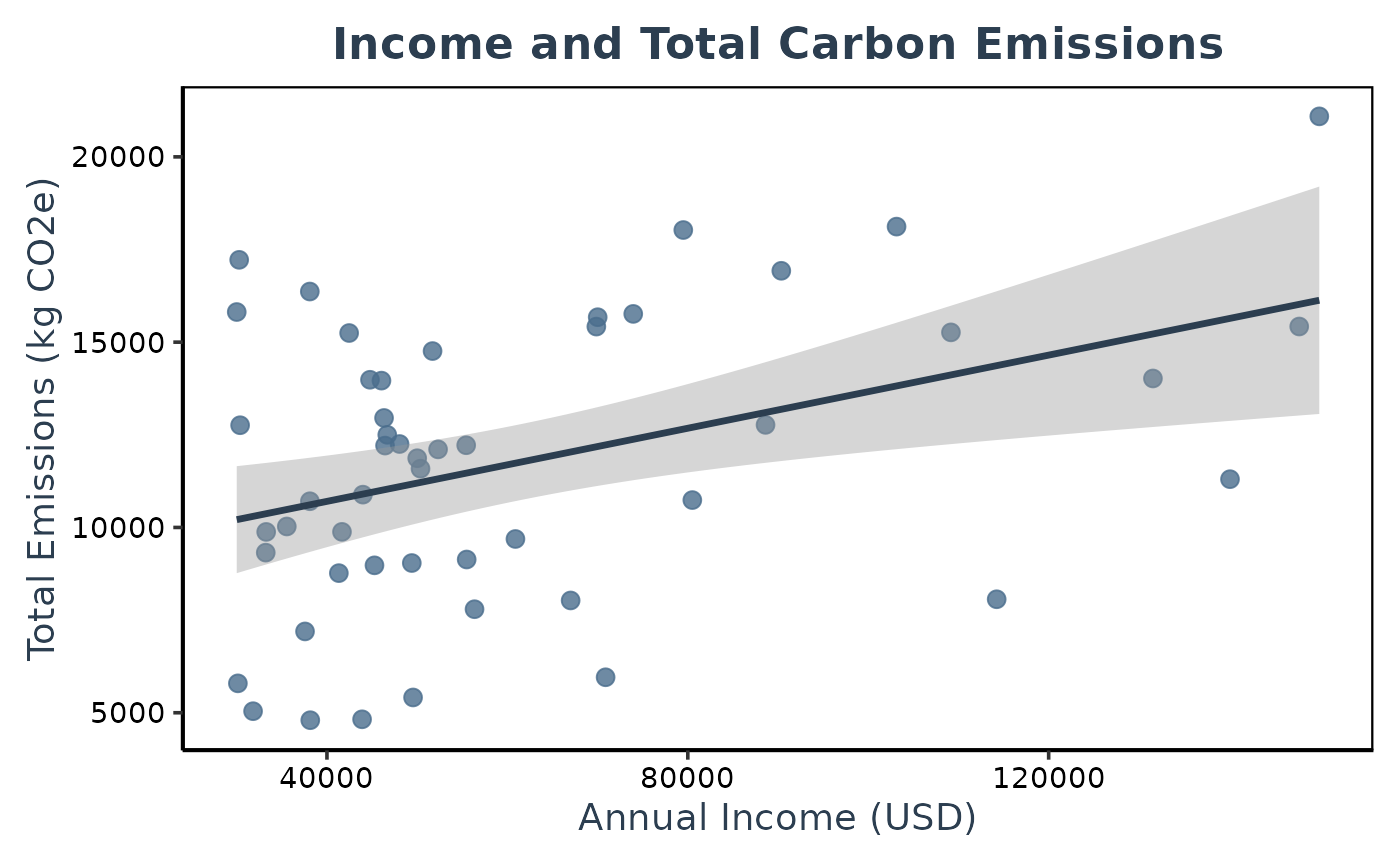
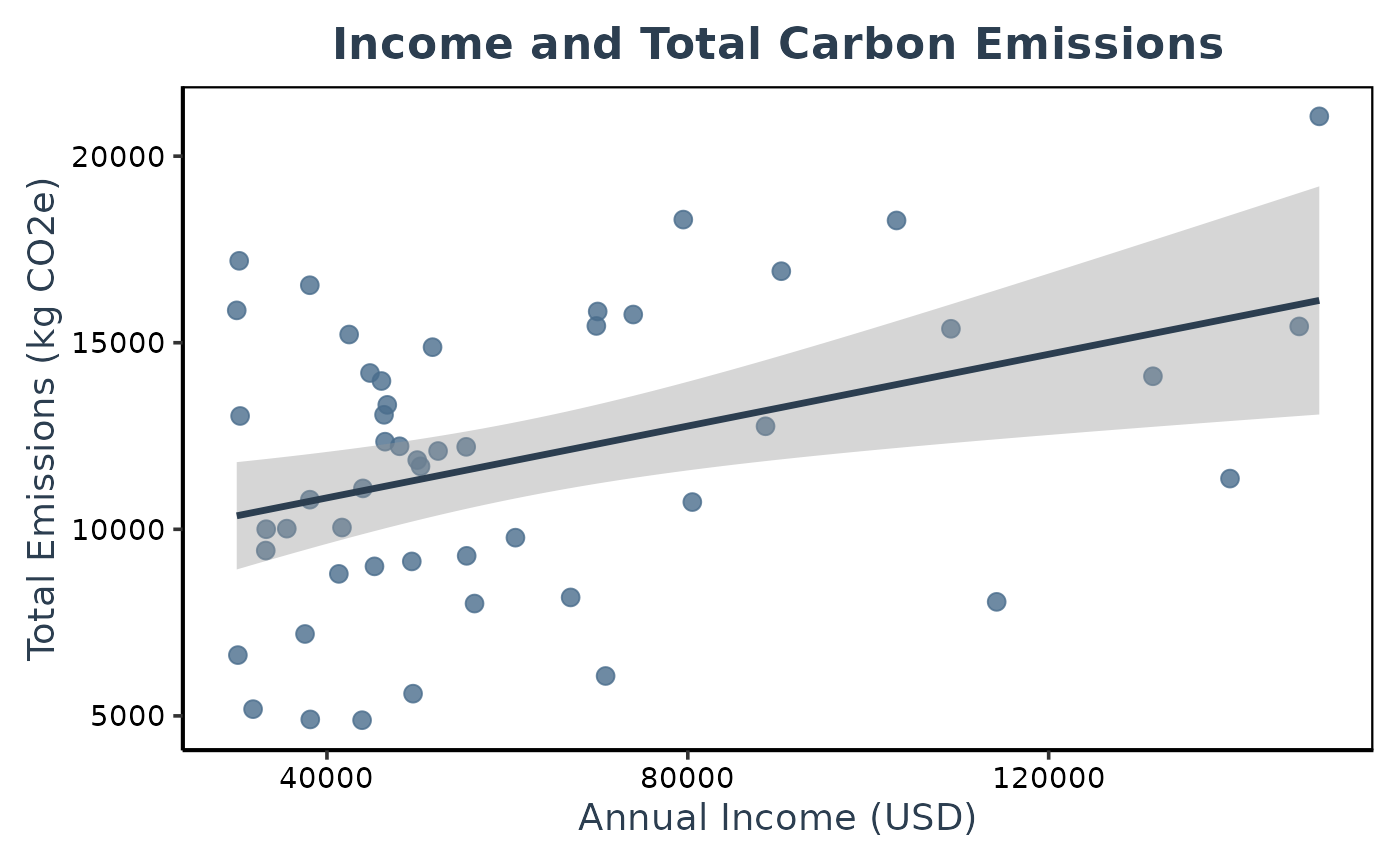
Deploying to gh-pages from @ jianing-d/SECFC@8f093e374346b09e76c5bb111f000ab4256d6d50 🚀

diff --git a/articles/Get-Started.html b/articles/Get-Started.html
@@ -116,14 +116,14 @@ match exactly. Here is an example of the expected data structure:</p>
 <span>  <span class="op">~</span><span class="va">CL_03_MonthlyEx_12</span>, <span class="op">~</span><span class="va">CL_03_MonthlyEx_13</span>, <span class="op">~</span><span class="va">CL_03_MonthlyEx_14</span>, <span class="op">~</span><span class="va">CL_03_MonthlyEx_15</span>, <span class="op">~</span><span class="va">F_01_DietaryHabits_5</span>,</span>
 <span>  <span class="op">~</span><span class="va">F_01_DietaryHabits_6</span>, <span class="op">~</span><span class="va">F_01_DietaryHabits_7</span>, <span class="op">~</span><span class="va">F_01_DietaryHabits_4</span>, <span class="op">~</span><span class="va">T_01_CarUsage</span>, <span class="op">~</span><span class="va">T_02_CarType</span>, <span class="op">~</span><span class="va">T_03_CarDistance</span>,</span>
 <span>  <span class="op">~</span><span class="va">T_04_PublicTransport</span>, <span class="op">~</span><span class="va">T_05_PublicTransport</span>, <span class="op">~</span><span class="va">T_06_AirTravelLong</span>, <span class="op">~</span><span class="va">T_07_AirTravelShort</span>, <span class="op">~</span><span class="va">T_08_LongDistanceTra</span>,</span>
-<span>  <span class="op">~</span><span class="va">EH_02_ElectricityBil_1</span>, <span class="op">~</span><span class="va">EH_03_ElectricityBil_1</span>, <span class="op">~</span><span class="va">EH_05_NaturalGasBill_1</span>, <span class="op">~</span><span class="va">EH_06_NaturalGasBill_1</span>, <span class="op">~</span><span class="va">PETS_4</span>, <span class="op">~</span><span class="va">PETS_5</span>,</span>
+<span>  <span class="op">~</span><span class="va">EH_02_ElectricityBil_1</span>, <span class="op">~</span><span class="va">EH_03_ElectricityBil_1</span>, <span class="op">~</span><span class="va">EH_05_NaturalGasBill_1</span>, <span class="op">~</span><span class="va">EH_06_NaturalGasBill_1</span>, <span class="op">~</span><span class="va">EH_07_WaterBill</span>, <span class="op">~</span><span class="va">PETS_4</span>, <span class="op">~</span><span class="va">PETS_5</span>,</span>
 <span>  <span class="op">~</span><span class="va">SD_06_HouseholdSize_17</span>, <span class="op">~</span><span class="va">SD_06_HouseholdSize_18</span>, <span class="op">~</span><span class="va">SD_06_HouseholdSize_19</span>, <span class="op">~</span><span class="va">SD_07_Country</span>, <span class="op">~</span><span class="va">SD_08_ZipCode</span>,</span>
 <span>  </span>
 <span>  <span class="st">"3/20/25 9:43"</span>, <span class="st">"3/20/25 9:47"</span>, <span class="st">"IP Address"</span>, <span class="st">"111.187.123.25"</span>, <span class="fl">100</span>, <span class="fl">240</span>, <span class="cn">TRUE</span>, <span class="st">"3/20/25 9:47"</span>, <span class="st">"R_3lENNCNKNsOdbgd"</span>,</span>
 <span>  <span class="cn">NA</span>, <span class="cn">NA</span>, <span class="cn">NA</span>, <span class="cn">NA</span>, <span class="fl">31.2222</span>, <span class="fl">121.4581</span>, <span class="st">"anonymous"</span>, <span class="st">"EN"</span>, <span class="st">"Yes, I accept to proceed to the study"</span>,</span>
 <span>  <span class="st">"7-12 times (About every 1-2 months)"</span>, <span class="fl">30</span>, <span class="fl">250</span>, <span class="fl">50</span>, <span class="fl">0</span>, <span class="fl">50</span>, <span class="fl">100</span>, <span class="fl">200</span>, <span class="fl">7</span>, <span class="fl">3</span>, <span class="fl">4</span>, <span class="fl">6</span>, <span class="st">"5-6 days"</span>,</span>
 <span>  <span class="st">"Gasoline Vehicle"</span>, <span class="st">"11-50 km or 6.2-31 miles"</span>, <span class="st">"Weekly"</span>, <span class="st">"5-10 km or 3.1-6.2 miles"</span>, <span class="st">"1-3 flights"</span>,</span>
-<span>  <span class="st">"1-3 flights"</span>, <span class="st">"Monthly"</span>, <span class="fl">120</span>, <span class="fl">1440</span>, <span class="fl">50</span>, <span class="fl">600</span>, <span class="fl">1</span>, <span class="fl">1</span>, <span class="fl">2</span>, <span class="fl">1</span>, <span class="fl">0</span>, <span class="st">"United States"</span>, <span class="fl">10001</span></span>
+<span>  <span class="st">"1-3 flights"</span>, <span class="st">"Monthly"</span>, <span class="fl">120</span>, <span class="fl">1440</span>, <span class="fl">50</span>, <span class="fl">600</span>,<span class="fl">150</span>, <span class="fl">1</span>, <span class="fl">1</span>, <span class="fl">2</span>, <span class="fl">1</span>, <span class="fl">0</span>, <span class="st">"United States"</span>, <span class="fl">10001</span></span>
 <span><span class="op">)</span></span></code></pre></div>
 <p>✅ Note The following columns are automatically generated when you
 export responses from Qualtrics: ~StartDate, ~EndDate, ~Status,
@@ -146,12 +146,12 @@ process data.</p>
 <div class="sourceCode" id="cb4"><pre class="downlit sourceCode r">
 <code class="sourceCode R"><span><span class="fu"><a href="../reference/calc_cons_emissions.html">calc_cons_emissions</a></span><span class="op">(</span><span class="va">data</span><span class="op">)</span></span>
 <span><span class="co">#&gt; ✅ A new data frame 'data_cons' is now available in your R environment.</span></span>
-<span><span class="co">#&gt; <span style="color: #949494;"># A tibble: 1 × 50</span></span></span>
+<span><span class="co">#&gt; <span style="color: #949494;"># A tibble: 1 × 51</span></span></span>
 <span><span class="co">#&gt;   StartDate    EndDate Status IPAddress Progress Duration (in seconds…¹ Finished</span></span>
 <span><span class="co">#&gt;   <span style="color: #949494; font-style: italic;">&lt;chr&gt;</span>        <span style="color: #949494; font-style: italic;">&lt;chr&gt;</span>   <span style="color: #949494; font-style: italic;">&lt;chr&gt;</span>  <span style="color: #949494; font-style: italic;">&lt;chr&gt;</span>        <span style="color: #949494; font-style: italic;">&lt;dbl&gt;</span>                  <span style="color: #949494; font-style: italic;">&lt;dbl&gt;</span> <span style="color: #949494; font-style: italic;">&lt;lgl&gt;</span>   </span></span>
 <span><span class="co">#&gt; <span style="color: #BCBCBC;">1</span> 3/20/25 9:43 3/20/2… IP Ad… 111.187.…      100                    240 TRUE    </span></span>
 <span><span class="co">#&gt; <span style="color: #949494;"># ℹ abbreviated name: ¹`Duration (in seconds)`</span></span></span>
-<span><span class="co">#&gt; <span style="color: #949494;"># ℹ 43 more variables: RecordedDate &lt;chr&gt;, ResponseId &lt;chr&gt;,</span></span></span>
+<span><span class="co">#&gt; <span style="color: #949494;"># ℹ 44 more variables: RecordedDate &lt;chr&gt;, ResponseId &lt;chr&gt;,</span></span></span>
 <span><span class="co">#&gt; <span style="color: #949494;">#   RecipientLastName &lt;lgl&gt;, RecipientFirstName &lt;lgl&gt;, RecipientEmail &lt;lgl&gt;,</span></span></span>
 <span><span class="co">#&gt; <span style="color: #949494;">#   ExternalReference &lt;lgl&gt;, LocationLatitude &lt;dbl&gt;, LocationLongitude &lt;dbl&gt;,</span></span></span>
 <span><span class="co">#&gt; <span style="color: #949494;">#   DistributionChannel &lt;chr&gt;, UserLanguage &lt;chr&gt;, Q39 &lt;chr&gt;,</span></span></span>
@@ -161,12 +161,12 @@ process data.</p>
 <div class="sourceCode" id="cb5"><pre class="downlit sourceCode r">
 <code class="sourceCode R"><span><span class="fu"><a href="../reference/calc_cons_emissions_process.html">calc_cons_emissions_process</a></span><span class="op">(</span><span class="va">data</span><span class="op">)</span></span>
 <span><span class="co">#&gt; ✅ A new data frame 'data_cons_process' is now available in your R environment.</span></span>
-<span><span class="co">#&gt; <span style="color: #949494;"># A tibble: 1 × 59</span></span></span>
+<span><span class="co">#&gt; <span style="color: #949494;"># A tibble: 1 × 60</span></span></span>
 <span><span class="co">#&gt;   StartDate    EndDate Status IPAddress Progress Duration (in seconds…¹ Finished</span></span>
 <span><span class="co">#&gt;   <span style="color: #949494; font-style: italic;">&lt;chr&gt;</span>        <span style="color: #949494; font-style: italic;">&lt;chr&gt;</span>   <span style="color: #949494; font-style: italic;">&lt;chr&gt;</span>  <span style="color: #949494; font-style: italic;">&lt;chr&gt;</span>        <span style="color: #949494; font-style: italic;">&lt;dbl&gt;</span>                  <span style="color: #949494; font-style: italic;">&lt;dbl&gt;</span> <span style="color: #949494; font-style: italic;">&lt;lgl&gt;</span>   </span></span>
 <span><span class="co">#&gt; <span style="color: #BCBCBC;">1</span> 3/20/25 9:43 3/20/2… IP Ad… 111.187.…      100                    240 TRUE    </span></span>
 <span><span class="co">#&gt; <span style="color: #949494;"># ℹ abbreviated name: ¹`Duration (in seconds)`</span></span></span>
-<span><span class="co">#&gt; <span style="color: #949494;"># ℹ 52 more variables: RecordedDate &lt;chr&gt;, ResponseId &lt;chr&gt;,</span></span></span>
+<span><span class="co">#&gt; <span style="color: #949494;"># ℹ 53 more variables: RecordedDate &lt;chr&gt;, ResponseId &lt;chr&gt;,</span></span></span>
 <span><span class="co">#&gt; <span style="color: #949494;">#   RecipientLastName &lt;lgl&gt;, RecipientFirstName &lt;lgl&gt;, RecipientEmail &lt;lgl&gt;,</span></span></span>
 <span><span class="co">#&gt; <span style="color: #949494;">#   ExternalReference &lt;lgl&gt;, LocationLatitude &lt;dbl&gt;, LocationLongitude &lt;dbl&gt;,</span></span></span>
 <span><span class="co">#&gt; <span style="color: #949494;">#   DistributionChannel &lt;chr&gt;, UserLanguage &lt;chr&gt;, Q39 &lt;chr&gt;,</span></span></span>
@@ -180,12 +180,12 @@ process data.</p>
 <div class="sourceCode" id="cb6"><pre class="downlit sourceCode r">
 <code class="sourceCode R"><span><span class="fu"><a href="../reference/calc_food_emissions.html">calc_food_emissions</a></span><span class="op">(</span><span class="va">data</span><span class="op">)</span></span>
 <span><span class="co">#&gt; ✅ A new data frame 'data_food' is now available in your R environment.</span></span>
-<span><span class="co">#&gt; <span style="color: #949494;"># A tibble: 1 × 50</span></span></span>
+<span><span class="co">#&gt; <span style="color: #949494;"># A tibble: 1 × 51</span></span></span>
 <span><span class="co">#&gt;   StartDate    EndDate Status IPAddress Progress Duration (in seconds…¹ Finished</span></span>
 <span><span class="co">#&gt;   <span style="color: #949494; font-style: italic;">&lt;chr&gt;</span>        <span style="color: #949494; font-style: italic;">&lt;chr&gt;</span>   <span style="color: #949494; font-style: italic;">&lt;chr&gt;</span>  <span style="color: #949494; font-style: italic;">&lt;chr&gt;</span>        <span style="color: #949494; font-style: italic;">&lt;dbl&gt;</span>                  <span style="color: #949494; font-style: italic;">&lt;dbl&gt;</span> <span style="color: #949494; font-style: italic;">&lt;lgl&gt;</span>   </span></span>
 <span><span class="co">#&gt; <span style="color: #BCBCBC;">1</span> 3/20/25 9:43 3/20/2… IP Ad… 111.187.…      100                    240 TRUE    </span></span>
 <span><span class="co">#&gt; <span style="color: #949494;"># ℹ abbreviated name: ¹`Duration (in seconds)`</span></span></span>
-<span><span class="co">#&gt; <span style="color: #949494;"># ℹ 43 more variables: RecordedDate &lt;chr&gt;, ResponseId &lt;chr&gt;,</span></span></span>
+<span><span class="co">#&gt; <span style="color: #949494;"># ℹ 44 more variables: RecordedDate &lt;chr&gt;, ResponseId &lt;chr&gt;,</span></span></span>
 <span><span class="co">#&gt; <span style="color: #949494;">#   RecipientLastName &lt;dbl&gt;, RecipientFirstName &lt;dbl&gt;, RecipientEmail &lt;dbl&gt;,</span></span></span>
 <span><span class="co">#&gt; <span style="color: #949494;">#   ExternalReference &lt;dbl&gt;, LocationLatitude &lt;dbl&gt;, LocationLongitude &lt;dbl&gt;,</span></span></span>
 <span><span class="co">#&gt; <span style="color: #949494;">#   DistributionChannel &lt;chr&gt;, UserLanguage &lt;chr&gt;, Q39 &lt;chr&gt;,</span></span></span>
@@ -195,12 +195,12 @@ process data.</p>
 <div class="sourceCode" id="cb7"><pre class="downlit sourceCode r">
 <code class="sourceCode R"><span><span class="fu"><a href="../reference/calc_food_emissions_process.html">calc_food_emissions_process</a></span><span class="op">(</span><span class="va">data</span><span class="op">)</span></span>
 <span><span class="co">#&gt; ✅ A new data frame 'data_food_process' is now available in your R environment.</span></span>
-<span><span class="co">#&gt; <span style="color: #949494;"># A tibble: 1 × 54</span></span></span>
+<span><span class="co">#&gt; <span style="color: #949494;"># A tibble: 1 × 55</span></span></span>
 <span><span class="co">#&gt;   StartDate    EndDate Status IPAddress Progress Duration (in seconds…¹ Finished</span></span>
 <span><span class="co">#&gt;   <span style="color: #949494; font-style: italic;">&lt;chr&gt;</span>        <span style="color: #949494; font-style: italic;">&lt;chr&gt;</span>   <span style="color: #949494; font-style: italic;">&lt;chr&gt;</span>  <span style="color: #949494; font-style: italic;">&lt;chr&gt;</span>        <span style="color: #949494; font-style: italic;">&lt;dbl&gt;</span>                  <span style="color: #949494; font-style: italic;">&lt;dbl&gt;</span> <span style="color: #949494; font-style: italic;">&lt;lgl&gt;</span>   </span></span>
 <span><span class="co">#&gt; <span style="color: #BCBCBC;">1</span> 3/20/25 9:43 3/20/2… IP Ad… 111.187.…      100                    240 TRUE    </span></span>
 <span><span class="co">#&gt; <span style="color: #949494;"># ℹ abbreviated name: ¹`Duration (in seconds)`</span></span></span>
-<span><span class="co">#&gt; <span style="color: #949494;"># ℹ 47 more variables: RecordedDate &lt;chr&gt;, ResponseId &lt;chr&gt;,</span></span></span>
+<span><span class="co">#&gt; <span style="color: #949494;"># ℹ 48 more variables: RecordedDate &lt;chr&gt;, ResponseId &lt;chr&gt;,</span></span></span>
 <span><span class="co">#&gt; <span style="color: #949494;">#   RecipientLastName &lt;dbl&gt;, RecipientFirstName &lt;dbl&gt;, RecipientEmail &lt;dbl&gt;,</span></span></span>
 <span><span class="co">#&gt; <span style="color: #949494;">#   ExternalReference &lt;dbl&gt;, LocationLatitude &lt;dbl&gt;, LocationLongitude &lt;dbl&gt;,</span></span></span>
 <span><span class="co">#&gt; <span style="color: #949494;">#   DistributionChannel &lt;chr&gt;, UserLanguage &lt;chr&gt;, Q39 &lt;chr&gt;,</span></span></span>
@@ -214,12 +214,12 @@ process data.</p>
 <div class="sourceCode" id="cb8"><pre class="downlit sourceCode r">
 <code class="sourceCode R"><span><span class="fu"><a href="../reference/calc_housing_emissions.html">calc_housing_emissions</a></span><span class="op">(</span><span class="va">data</span><span class="op">)</span></span>
 <span><span class="co">#&gt; ✅ A new data frame 'data_housing' is now available in your R environment.</span></span>
-<span><span class="co">#&gt; <span style="color: #949494;"># A tibble: 1 × 50</span></span></span>
+<span><span class="co">#&gt; <span style="color: #949494;"># A tibble: 1 × 51</span></span></span>
 <span><span class="co">#&gt;   StartDate    EndDate Status IPAddress Progress Duration (in seconds…¹ Finished</span></span>
 <span><span class="co">#&gt;   <span style="color: #949494; font-style: italic;">&lt;chr&gt;</span>        <span style="color: #949494; font-style: italic;">&lt;chr&gt;</span>   <span style="color: #949494; font-style: italic;">&lt;chr&gt;</span>  <span style="color: #949494; font-style: italic;">&lt;chr&gt;</span>        <span style="color: #949494; font-style: italic;">&lt;dbl&gt;</span>                  <span style="color: #949494; font-style: italic;">&lt;dbl&gt;</span> <span style="color: #949494; font-style: italic;">&lt;lgl&gt;</span>   </span></span>
 <span><span class="co">#&gt; <span style="color: #BCBCBC;">1</span> 3/20/25 9:43 3/20/2… IP Ad… 111.187.…      100                    240 TRUE    </span></span>
 <span><span class="co">#&gt; <span style="color: #949494;"># ℹ abbreviated name: ¹`Duration (in seconds)`</span></span></span>
-<span><span class="co">#&gt; <span style="color: #949494;"># ℹ 43 more variables: RecordedDate &lt;chr&gt;, ResponseId &lt;chr&gt;,</span></span></span>
+<span><span class="co">#&gt; <span style="color: #949494;"># ℹ 44 more variables: RecordedDate &lt;chr&gt;, ResponseId &lt;chr&gt;,</span></span></span>
 <span><span class="co">#&gt; <span style="color: #949494;">#   RecipientLastName &lt;lgl&gt;, RecipientFirstName &lt;lgl&gt;, RecipientEmail &lt;lgl&gt;,</span></span></span>
 <span><span class="co">#&gt; <span style="color: #949494;">#   ExternalReference &lt;lgl&gt;, LocationLatitude &lt;dbl&gt;, LocationLongitude &lt;dbl&gt;,</span></span></span>
 <span><span class="co">#&gt; <span style="color: #949494;">#   DistributionChannel &lt;chr&gt;, UserLanguage &lt;chr&gt;, Q39 &lt;chr&gt;,</span></span></span>
@@ -229,12 +229,12 @@ process data.</p>
 <div class="sourceCode" id="cb9"><pre class="downlit sourceCode r">
 <code class="sourceCode R"><span><span class="fu"><a href="../reference/calc_housing_emissions_process.html">calc_housing_emissions_process</a></span><span class="op">(</span><span class="va">data</span><span class="op">)</span></span>
 <span><span class="co">#&gt; ✅ A new data frame 'data_housing_process' is now available in your R environment.</span></span>
-<span><span class="co">#&gt; <span style="color: #949494;"># A tibble: 1 × 59</span></span></span>
+<span><span class="co">#&gt; <span style="color: #949494;"># A tibble: 1 × 64</span></span></span>
 <span><span class="co">#&gt;   StartDate    EndDate Status IPAddress Progress Duration (in seconds…¹ Finished</span></span>
 <span><span class="co">#&gt;   <span style="color: #949494; font-style: italic;">&lt;chr&gt;</span>        <span style="color: #949494; font-style: italic;">&lt;chr&gt;</span>   <span style="color: #949494; font-style: italic;">&lt;chr&gt;</span>  <span style="color: #949494; font-style: italic;">&lt;chr&gt;</span>        <span style="color: #949494; font-style: italic;">&lt;dbl&gt;</span>                  <span style="color: #949494; font-style: italic;">&lt;dbl&gt;</span> <span style="color: #949494; font-style: italic;">&lt;lgl&gt;</span>   </span></span>
 <span><span class="co">#&gt; <span style="color: #BCBCBC;">1</span> 3/20/25 9:43 3/20/2… IP Ad… 111.187.…      100                    240 TRUE    </span></span>
 <span><span class="co">#&gt; <span style="color: #949494;"># ℹ abbreviated name: ¹`Duration (in seconds)`</span></span></span>
-<span><span class="co">#&gt; <span style="color: #949494;"># ℹ 52 more variables: RecordedDate &lt;chr&gt;, ResponseId &lt;chr&gt;,</span></span></span>
+<span><span class="co">#&gt; <span style="color: #949494;"># ℹ 57 more variables: RecordedDate &lt;chr&gt;, ResponseId &lt;chr&gt;,</span></span></span>
 <span><span class="co">#&gt; <span style="color: #949494;">#   RecipientLastName &lt;lgl&gt;, RecipientFirstName &lt;lgl&gt;, RecipientEmail &lt;lgl&gt;,</span></span></span>
 <span><span class="co">#&gt; <span style="color: #949494;">#   ExternalReference &lt;lgl&gt;, LocationLatitude &lt;dbl&gt;, LocationLongitude &lt;dbl&gt;,</span></span></span>
 <span><span class="co">#&gt; <span style="color: #949494;">#   DistributionChannel &lt;chr&gt;, UserLanguage &lt;chr&gt;, Q39 &lt;chr&gt;,</span></span></span>
@@ -248,12 +248,12 @@ process data.</p>
 <div class="sourceCode" id="cb10"><pre class="downlit sourceCode r">
 <code class="sourceCode R"><span><span class="fu"><a href="../reference/calc_pet_emissions.html">calc_pet_emissions</a></span><span class="op">(</span><span class="va">data</span><span class="op">)</span></span>
 <span><span class="co">#&gt; ✅ A new data frame 'data_pet' is now available in your R environment.</span></span>
-<span><span class="co">#&gt; <span style="color: #949494;"># A tibble: 1 × 50</span></span></span>
+<span><span class="co">#&gt; <span style="color: #949494;"># A tibble: 1 × 51</span></span></span>
 <span><span class="co">#&gt;   StartDate    EndDate Status IPAddress Progress Duration (in seconds…¹ Finished</span></span>
 <span><span class="co">#&gt;   <span style="color: #949494; font-style: italic;">&lt;chr&gt;</span>        <span style="color: #949494; font-style: italic;">&lt;chr&gt;</span>   <span style="color: #949494; font-style: italic;">&lt;chr&gt;</span>  <span style="color: #949494; font-style: italic;">&lt;chr&gt;</span>        <span style="color: #949494; font-style: italic;">&lt;dbl&gt;</span>                  <span style="color: #949494; font-style: italic;">&lt;dbl&gt;</span> <span style="color: #949494; font-style: italic;">&lt;lgl&gt;</span>   </span></span>
 <span><span class="co">#&gt; <span style="color: #BCBCBC;">1</span> 3/20/25 9:43 3/20/2… IP Ad… 111.187.…      100                    240 TRUE    </span></span>
 <span><span class="co">#&gt; <span style="color: #949494;"># ℹ abbreviated name: ¹`Duration (in seconds)`</span></span></span>
-<span><span class="co">#&gt; <span style="color: #949494;"># ℹ 43 more variables: RecordedDate &lt;chr&gt;, ResponseId &lt;chr&gt;,</span></span></span>
+<span><span class="co">#&gt; <span style="color: #949494;"># ℹ 44 more variables: RecordedDate &lt;chr&gt;, ResponseId &lt;chr&gt;,</span></span></span>
 <span><span class="co">#&gt; <span style="color: #949494;">#   RecipientLastName &lt;lgl&gt;, RecipientFirstName &lt;lgl&gt;, RecipientEmail &lt;lgl&gt;,</span></span></span>
 <span><span class="co">#&gt; <span style="color: #949494;">#   ExternalReference &lt;lgl&gt;, LocationLatitude &lt;dbl&gt;, LocationLongitude &lt;dbl&gt;,</span></span></span>
 <span><span class="co">#&gt; <span style="color: #949494;">#   DistributionChannel &lt;chr&gt;, UserLanguage &lt;chr&gt;, Q39 &lt;chr&gt;,</span></span></span>
@@ -263,12 +263,12 @@ process data.</p>
 <div class="sourceCode" id="cb11"><pre class="downlit sourceCode r">
 <code class="sourceCode R"><span><span class="fu"><a href="../reference/calc_pet_emissions_process.html">calc_pet_emissions_process</a></span><span class="op">(</span><span class="va">data</span><span class="op">)</span></span>
 <span><span class="co">#&gt; ✅ A new data frame 'data_pet_process' is now available in your R environment.</span></span>
-<span><span class="co">#&gt; <span style="color: #949494;"># A tibble: 1 × 52</span></span></span>
+<span><span class="co">#&gt; <span style="color: #949494;"># A tibble: 1 × 53</span></span></span>
 <span><span class="co">#&gt;   StartDate    EndDate Status IPAddress Progress Duration (in seconds…¹ Finished</span></span>
 <span><span class="co">#&gt;   <span style="color: #949494; font-style: italic;">&lt;chr&gt;</span>        <span style="color: #949494; font-style: italic;">&lt;chr&gt;</span>   <span style="color: #949494; font-style: italic;">&lt;chr&gt;</span>  <span style="color: #949494; font-style: italic;">&lt;chr&gt;</span>        <span style="color: #949494; font-style: italic;">&lt;dbl&gt;</span>                  <span style="color: #949494; font-style: italic;">&lt;dbl&gt;</span> <span style="color: #949494; font-style: italic;">&lt;lgl&gt;</span>   </span></span>
 <span><span class="co">#&gt; <span style="color: #BCBCBC;">1</span> 3/20/25 9:43 3/20/2… IP Ad… 111.187.…      100                    240 TRUE    </span></span>
 <span><span class="co">#&gt; <span style="color: #949494;"># ℹ abbreviated name: ¹`Duration (in seconds)`</span></span></span>
-<span><span class="co">#&gt; <span style="color: #949494;"># ℹ 45 more variables: RecordedDate &lt;chr&gt;, ResponseId &lt;chr&gt;,</span></span></span>
+<span><span class="co">#&gt; <span style="color: #949494;"># ℹ 46 more variables: RecordedDate &lt;chr&gt;, ResponseId &lt;chr&gt;,</span></span></span>
 <span><span class="co">#&gt; <span style="color: #949494;">#   RecipientLastName &lt;lgl&gt;, RecipientFirstName &lt;lgl&gt;, RecipientEmail &lt;lgl&gt;,</span></span></span>
 <span><span class="co">#&gt; <span style="color: #949494;">#   ExternalReference &lt;lgl&gt;, LocationLatitude &lt;dbl&gt;, LocationLongitude &lt;dbl&gt;,</span></span></span>
 <span><span class="co">#&gt; <span style="color: #949494;">#   DistributionChannel &lt;chr&gt;, UserLanguage &lt;chr&gt;, Q39 &lt;chr&gt;,</span></span></span>
@@ -283,12 +283,12 @@ transportation.</p>
 <div class="sourceCode" id="cb12"><pre class="downlit sourceCode r">
 <code class="sourceCode R"><span><span class="fu"><a href="../reference/calc_transport_emissions.html">calc_transport_emissions</a></span><span class="op">(</span><span class="va">data</span><span class="op">)</span></span>
 <span><span class="co">#&gt; ✅ A new data frame 'data_transport' is now available in your R environment.</span></span>
-<span><span class="co">#&gt; <span style="color: #949494;"># A tibble: 1 × 50</span></span></span>
+<span><span class="co">#&gt; <span style="color: #949494;"># A tibble: 1 × 51</span></span></span>
 <span><span class="co">#&gt;   StartDate    EndDate Status IPAddress Progress Duration (in seconds…¹ Finished</span></span>
 <span><span class="co">#&gt;   <span style="color: #949494; font-style: italic;">&lt;chr&gt;</span>        <span style="color: #949494; font-style: italic;">&lt;chr&gt;</span>   <span style="color: #949494; font-style: italic;">&lt;chr&gt;</span>  <span style="color: #949494; font-style: italic;">&lt;chr&gt;</span>        <span style="color: #949494; font-style: italic;">&lt;dbl&gt;</span>                  <span style="color: #949494; font-style: italic;">&lt;dbl&gt;</span> <span style="color: #949494; font-style: italic;">&lt;lgl&gt;</span>   </span></span>
 <span><span class="co">#&gt; <span style="color: #BCBCBC;">1</span> 3/20/25 9:43 3/20/2… IP Ad… 111.187.…      100                    240 TRUE    </span></span>
 <span><span class="co">#&gt; <span style="color: #949494;"># ℹ abbreviated name: ¹`Duration (in seconds)`</span></span></span>
-<span><span class="co">#&gt; <span style="color: #949494;"># ℹ 43 more variables: RecordedDate &lt;chr&gt;, ResponseId &lt;chr&gt;,</span></span></span>
+<span><span class="co">#&gt; <span style="color: #949494;"># ℹ 44 more variables: RecordedDate &lt;chr&gt;, ResponseId &lt;chr&gt;,</span></span></span>
 <span><span class="co">#&gt; <span style="color: #949494;">#   RecipientLastName &lt;lgl&gt;, RecipientFirstName &lt;lgl&gt;, RecipientEmail &lt;lgl&gt;,</span></span></span>
 <span><span class="co">#&gt; <span style="color: #949494;">#   ExternalReference &lt;lgl&gt;, LocationLatitude &lt;dbl&gt;, LocationLongitude &lt;dbl&gt;,</span></span></span>
 <span><span class="co">#&gt; <span style="color: #949494;">#   DistributionChannel &lt;chr&gt;, UserLanguage &lt;chr&gt;, Q39 &lt;chr&gt;,</span></span></span>
@@ -298,12 +298,12 @@ transportation.</p>
 <div class="sourceCode" id="cb13"><pre class="downlit sourceCode r">
 <code class="sourceCode R"><span><span class="fu"><a href="../reference/calc_transport_emissions_process.html">calc_transport_emissions_process</a></span><span class="op">(</span><span class="va">data</span><span class="op">)</span></span>
 <span><span class="co">#&gt; ✅ A new data frame 'data_transport_process' is now available in your R environment.</span></span>
-<span><span class="co">#&gt; <span style="color: #949494;"># A tibble: 1 × 60</span></span></span>
+<span><span class="co">#&gt; <span style="color: #949494;"># A tibble: 1 × 61</span></span></span>
 <span><span class="co">#&gt;   StartDate    EndDate Status IPAddress Progress Duration (in seconds…¹ Finished</span></span>
 <span><span class="co">#&gt;   <span style="color: #949494; font-style: italic;">&lt;chr&gt;</span>        <span style="color: #949494; font-style: italic;">&lt;chr&gt;</span>   <span style="color: #949494; font-style: italic;">&lt;chr&gt;</span>  <span style="color: #949494; font-style: italic;">&lt;chr&gt;</span>        <span style="color: #949494; font-style: italic;">&lt;dbl&gt;</span>                  <span style="color: #949494; font-style: italic;">&lt;dbl&gt;</span> <span style="color: #949494; font-style: italic;">&lt;lgl&gt;</span>   </span></span>
 <span><span class="co">#&gt; <span style="color: #BCBCBC;">1</span> 3/20/25 9:43 3/20/2… IP Ad… 111.187.…      100                    240 TRUE    </span></span>
 <span><span class="co">#&gt; <span style="color: #949494;"># ℹ abbreviated name: ¹`Duration (in seconds)`</span></span></span>
-<span><span class="co">#&gt; <span style="color: #949494;"># ℹ 53 more variables: RecordedDate &lt;chr&gt;, ResponseId &lt;chr&gt;,</span></span></span>
+<span><span class="co">#&gt; <span style="color: #949494;"># ℹ 54 more variables: RecordedDate &lt;chr&gt;, ResponseId &lt;chr&gt;,</span></span></span>
 <span><span class="co">#&gt; <span style="color: #949494;">#   RecipientLastName &lt;lgl&gt;, RecipientFirstName &lt;lgl&gt;, RecipientEmail &lt;lgl&gt;,</span></span></span>
 <span><span class="co">#&gt; <span style="color: #949494;">#   ExternalReference &lt;lgl&gt;, LocationLatitude &lt;dbl&gt;, LocationLongitude &lt;dbl&gt;,</span></span></span>
 <span><span class="co">#&gt; <span style="color: #949494;">#   DistributionChannel &lt;chr&gt;, UserLanguage &lt;chr&gt;, Q39 &lt;chr&gt;,</span></span></span>
@@ -317,12 +317,12 @@ transportation.</p>
 <div class="sourceCode" id="cb14"><pre class="downlit sourceCode r">
 <code class="sourceCode R"><span><span class="fu"><a href="../reference/calc_total_emissions.html">calc_total_emissions</a></span><span class="op">(</span><span class="va">data</span><span class="op">)</span></span>
 <span><span class="co">#&gt; ✅ A new data frame 'data_total' is now available in your R environment.</span></span>
-<span><span class="co">#&gt; <span style="color: #949494;"># A tibble: 1 × 55</span></span></span>
+<span><span class="co">#&gt; <span style="color: #949494;"># A tibble: 1 × 56</span></span></span>
 <span><span class="co">#&gt;   StartDate    EndDate Status IPAddress Progress Duration (in seconds…¹ Finished</span></span>
 <span><span class="co">#&gt;   <span style="color: #949494; font-style: italic;">&lt;chr&gt;</span>        <span style="color: #949494; font-style: italic;">&lt;chr&gt;</span>   <span style="color: #949494; font-style: italic;">&lt;chr&gt;</span>  <span style="color: #949494; font-style: italic;">&lt;chr&gt;</span>        <span style="color: #949494; font-style: italic;">&lt;dbl&gt;</span>                  <span style="color: #949494; font-style: italic;">&lt;dbl&gt;</span> <span style="color: #949494; font-style: italic;">&lt;lgl&gt;</span>   </span></span>
 <span><span class="co">#&gt; <span style="color: #BCBCBC;">1</span> 3/20/25 9:43 3/20/2… IP Ad… 111.187.…      100                    240 TRUE    </span></span>
 <span><span class="co">#&gt; <span style="color: #949494;"># ℹ abbreviated name: ¹`Duration (in seconds)`</span></span></span>
-<span><span class="co">#&gt; <span style="color: #949494;"># ℹ 48 more variables: RecordedDate &lt;chr&gt;, ResponseId &lt;chr&gt;,</span></span></span>
+<span><span class="co">#&gt; <span style="color: #949494;"># ℹ 49 more variables: RecordedDate &lt;chr&gt;, ResponseId &lt;chr&gt;,</span></span></span>
 <span><span class="co">#&gt; <span style="color: #949494;">#   RecipientLastName &lt;dbl&gt;, RecipientFirstName &lt;dbl&gt;, RecipientEmail &lt;dbl&gt;,</span></span></span>
 <span><span class="co">#&gt; <span style="color: #949494;">#   ExternalReference &lt;dbl&gt;, LocationLatitude &lt;dbl&gt;, LocationLongitude &lt;dbl&gt;,</span></span></span>
 <span><span class="co">#&gt; <span style="color: #949494;">#   DistributionChannel &lt;chr&gt;, UserLanguage &lt;chr&gt;, Q39 &lt;chr&gt;,</span></span></span>
@@ -332,12 +332,12 @@ transportation.</p>
 <div class="sourceCode" id="cb15"><pre class="downlit sourceCode r">
 <code class="sourceCode R"><span><span class="fu"><a href="../reference/calc_total_emissions_process.html">calc_total_emissions_process</a></span><span class="op">(</span><span class="va">data</span><span class="op">)</span></span>
 <span><span class="co">#&gt; ✅ A new data frame 'data_total_process' is now available in your R environment.</span></span>
-<span><span class="co">#&gt; <span style="color: #949494;"># A tibble: 1 × 91</span></span></span>
+<span><span class="co">#&gt; <span style="color: #949494;"># A tibble: 1 × 94</span></span></span>
 <span><span class="co">#&gt;   StartDate    EndDate Status IPAddress Progress Duration (in seconds…¹ Finished</span></span>
 <span><span class="co">#&gt;   <span style="color: #949494; font-style: italic;">&lt;chr&gt;</span>        <span style="color: #949494; font-style: italic;">&lt;chr&gt;</span>   <span style="color: #949494; font-style: italic;">&lt;chr&gt;</span>  <span style="color: #949494; font-style: italic;">&lt;chr&gt;</span>        <span style="color: #949494; font-style: italic;">&lt;dbl&gt;</span>                  <span style="color: #949494; font-style: italic;">&lt;dbl&gt;</span> <span style="color: #949494; font-style: italic;">&lt;lgl&gt;</span>   </span></span>
 <span><span class="co">#&gt; <span style="color: #BCBCBC;">1</span> 3/20/25 9:43 3/20/2… IP Ad… 111.187.…      100                    240 TRUE    </span></span>
 <span><span class="co">#&gt; <span style="color: #949494;"># ℹ abbreviated name: ¹`Duration (in seconds)`</span></span></span>
-<span><span class="co">#&gt; <span style="color: #949494;"># ℹ 84 more variables: RecordedDate &lt;chr&gt;, ResponseId &lt;chr&gt;,</span></span></span>
+<span><span class="co">#&gt; <span style="color: #949494;"># ℹ 87 more variables: RecordedDate &lt;chr&gt;, ResponseId &lt;chr&gt;,</span></span></span>
 <span><span class="co">#&gt; <span style="color: #949494;">#   RecipientLastName &lt;dbl&gt;, RecipientFirstName &lt;dbl&gt;, RecipientEmail &lt;dbl&gt;,</span></span></span>
 <span><span class="co">#&gt; <span style="color: #949494;">#   ExternalReference &lt;dbl&gt;, LocationLatitude &lt;dbl&gt;, LocationLongitude &lt;dbl&gt;,</span></span></span>
 <span><span class="co">#&gt; <span style="color: #949494;">#   DistributionChannel &lt;chr&gt;, UserLanguage &lt;chr&gt;, Q39 &lt;chr&gt;,</span></span></span>

diff --git a/articles/Analysis_Example.html b/articles/Analysis_Example.html
@@ -93,7 +93,10 @@ carbon emissions.</li>
 <div class="sourceCode" id="cb1"><pre class="downlit sourceCode r">
 <code class="sourceCode R"><span><span class="co"># Install the SECFC package from GitHub</span></span>
 <span><span class="fu">remotes</span><span class="fu">::</span><span class="fu"><a href="https://remotes.r-lib.org/reference/install_github.html" class="external-link">install_github</a></span><span class="op">(</span><span class="st">"jianing-d/SECFC"</span><span class="op">)</span></span>
-<span><span class="co">#&gt; * checking for file ‘/tmp/RtmpzDQtSz/remotes1e072095b950/jianing-d-SECFC-a0f5f1c/DESCRIPTION’ ... OK</span></span>
+<span><span class="co">#&gt; cpp11       (NA -&gt; 0.5.2) [CRAN]</span></span>
+<span><span class="co">#&gt; prettyunits (NA -&gt; 1.2.0) [CRAN]</span></span>
+<span><span class="co">#&gt; progress    (NA -&gt; 1.2.3) [CRAN]</span></span>
+<span><span class="co">#&gt; * checking for file ‘/tmp/Rtmp4UkYuI/remotes1f8f6c2dcbc4/jianing-d-SECFC-482ff8c/DESCRIPTION’ ... OK</span></span>
 <span><span class="co">#&gt; * preparing ‘SECFC’:</span></span>
 <span><span class="co">#&gt; * checking DESCRIPTION meta-information ... OK</span></span>
 <span><span class="co">#&gt; * checking for LF line-endings in source and make files and shell scripts</span></span>
@@ -120,7 +123,7 @@ package).</p>
 <span></span>
 <span><span class="co"># Take a quick look at your data structure</span></span>
 <span><span class="fu"><a href="https://rdrr.io/r/utils/str.html" class="external-link">str</a></span><span class="op">(</span><span class="va">questionnaire_example</span><span class="op">)</span></span>
-<span><span class="co">#&gt; tibble [50 × 34] (S3: tbl_df/tbl/data.frame)</span></span>
+<span><span class="co">#&gt; tibble [50 × 35] (S3: tbl_df/tbl/data.frame)</span></span>
 <span><span class="co">#&gt;  $ RecordedDate          : chr [1:50] "30/6/2024 22:38" "30/6/2024 22:39" "30/6/2024 22:40" "30/6/2024 22:40" ...</span></span>
 <span><span class="co">#&gt;  $ T_01_CarUsage         : num [1:50] 4 3 3 4 5 4 5 4 3 3 ...</span></span>
 <span><span class="co">#&gt;  $ T_02_CarType          : num [1:50] 3 3 2 3 3 3 3 3 2 3 ...</span></span>
@@ -135,6 +138,7 @@ package).</p>
 <span><span class="co">#&gt;  $ E1_Electricity Usage  : num [1:50] 2 2 2 1 1 1 1 4 1 1 ...</span></span>
 <span><span class="co">#&gt;  $ EH_02_ElectricityBil_1: num [1:50] 300 79 153 73 107 181 80 130 132 27 ...</span></span>
 <span><span class="co">#&gt;  $ EH_05_NaturalGasBill_1: num [1:50] 59 46 0 27 47 20 0 80 0 27 ...</span></span>
+<span><span class="co">#&gt;  $ EH_07_WaterBill       : num [1:50] 119 0 35 0 17 25 40 0 80 150 ...</span></span>
 <span><span class="co">#&gt;  $ F_01_DietaryHabits_5  : num [1:50] 12 8 6 9 10 1 7 8 13 8 ...</span></span>
 <span><span class="co">#&gt;  $ F_01_DietaryHabits_6  : num [1:50] 0 0 2 0 4 0 0 0 1 1 ...</span></span>
 <span><span class="co">#&gt;  $ F_01_DietaryHabits_7  : num [1:50] 0 2 0 1 4 0 5 0 5 2 ...</span></span>
@@ -167,7 +171,7 @@ TotalEmissions, the individual respondent’s overall estimated
 footprint.</p>
 <div class="sourceCode" id="cb4"><pre class="downlit sourceCode r">
 <code class="sourceCode R"><span><span class="fu"><a href="../reference/calc_total_emissions.html">calc_total_emissions</a></span><span class="op">(</span><span class="va">questionnaire_example</span><span class="op">)</span></span>
-<span><span class="co">#&gt; <span style="color: #949494;"># A tibble: 50 × 40</span></span></span>
+<span><span class="co">#&gt; <span style="color: #949494;"># A tibble: 50 × 41</span></span></span>
 <span><span class="co">#&gt;    RecordedDate T_01_CarUsage T_02_CarType T_03_CarDistance T_04_PublicTransport</span></span>
 <span><span class="co">#&gt;    <span style="color: #949494; font-style: italic;">&lt;chr&gt;</span>                <span style="color: #949494; font-style: italic;">&lt;dbl&gt;</span>        <span style="color: #949494; font-style: italic;">&lt;dbl&gt;</span>            <span style="color: #949494; font-style: italic;">&lt;dbl&gt;</span>                <span style="color: #949494; font-style: italic;">&lt;dbl&gt;</span></span></span>
 <span><span class="co">#&gt; <span style="color: #BCBCBC;"> 1</span> 30/6/2024 2…           5.5            3             10                      5</span></span>
@@ -181,16 +185,16 @@ footprint.</p>
 <span><span class="co">#&gt; <span style="color: #BCBCBC;"> 9</span> 30/6/2024 2…           3.5            2             51                      5</span></span>
 <span><span class="co">#&gt; <span style="color: #BCBCBC;">10</span> 30/6/2024 2…           3.5            3             10                      4</span></span>
 <span><span class="co">#&gt; <span style="color: #949494;"># ℹ 40 more rows</span></span></span>
-<span><span class="co">#&gt; <span style="color: #949494;"># ℹ 35 more variables: T_05_PublicTransport &lt;dbl&gt;, T_06_AirTravelLong &lt;dbl&gt;,</span></span></span>
+<span><span class="co">#&gt; <span style="color: #949494;"># ℹ 36 more variables: T_05_PublicTransport &lt;dbl&gt;, T_06_AirTravelLong &lt;dbl&gt;,</span></span></span>
 <span><span class="co">#&gt; <span style="color: #949494;">#   T_07_AirTravelShort &lt;dbl&gt;, T_08_LongDistanceTra &lt;dbl&gt;, PETS_4 &lt;dbl&gt;,</span></span></span>
 <span><span class="co">#&gt; <span style="color: #949494;">#   PETS_5 &lt;dbl&gt;, `E1_Electricity Usage` &lt;dbl&gt;, EH_02_ElectricityBil_1 &lt;dbl&gt;,</span></span></span>
-<span><span class="co">#&gt; <span style="color: #949494;">#   EH_05_NaturalGasBill_1 &lt;dbl&gt;, F_01_DietaryHabits_5 &lt;dbl&gt;,</span></span></span>
-<span><span class="co">#&gt; <span style="color: #949494;">#   F_01_DietaryHabits_6 &lt;dbl&gt;, F_01_DietaryHabits_7 &lt;dbl&gt;,</span></span></span>
-<span><span class="co">#&gt; <span style="color: #949494;">#   F_01_DietaryHabits_4 &lt;dbl&gt;, CL_01_ClothingPurcha &lt;dbl&gt;, …</span></span></span>
+<span><span class="co">#&gt; <span style="color: #949494;">#   EH_05_NaturalGasBill_1 &lt;dbl&gt;, EH_07_WaterBill &lt;dbl&gt;,</span></span></span>
+<span><span class="co">#&gt; <span style="color: #949494;">#   F_01_DietaryHabits_5 &lt;dbl&gt;, F_01_DietaryHabits_6 &lt;dbl&gt;,</span></span></span>
+<span><span class="co">#&gt; <span style="color: #949494;">#   F_01_DietaryHabits_7 &lt;dbl&gt;, F_01_DietaryHabits_4 &lt;dbl&gt;, …</span></span></span>
 <span></span>
 <span><span class="co"># Check the first few rows</span></span>
 <span><span class="fu"><a href="https://rdrr.io/r/utils/head.html" class="external-link">head</a></span><span class="op">(</span><span class="va">questionnaire_example_total</span><span class="op">)</span></span>
-<span><span class="co">#&gt; <span style="color: #949494;"># A tibble: 6 × 40</span></span></span>
+<span><span class="co">#&gt; <span style="color: #949494;"># A tibble: 6 × 41</span></span></span>
 <span><span class="co">#&gt;   RecordedDate  T_01_CarUsage T_02_CarType T_03_CarDistance T_04_PublicTransport</span></span>
 <span><span class="co">#&gt;   <span style="color: #949494; font-style: italic;">&lt;chr&gt;</span>                 <span style="color: #949494; font-style: italic;">&lt;dbl&gt;</span>        <span style="color: #949494; font-style: italic;">&lt;dbl&gt;</span>            <span style="color: #949494; font-style: italic;">&lt;dbl&gt;</span>                <span style="color: #949494; font-style: italic;">&lt;dbl&gt;</span></span></span>
 <span><span class="co">#&gt; <span style="color: #BCBCBC;">1</span> 30/6/2024 22…           5.5            3             10                      5</span></span>
@@ -199,13 +203,13 @@ footprint.</p>
 <span><span class="co">#&gt; <span style="color: #BCBCBC;">4</span> 30/6/2024 22…           5.5            3             10                      4</span></span>
 <span><span class="co">#&gt; <span style="color: #BCBCBC;">5</span> 30/6/2024 22…           7              3             10                      4</span></span>
 <span><span class="co">#&gt; <span style="color: #BCBCBC;">6</span> 30/6/2024 22…           5.5            3             30.5                    5</span></span>
-<span><span class="co">#&gt; <span style="color: #949494;"># ℹ 35 more variables: T_05_PublicTransport &lt;dbl&gt;, T_06_AirTravelLong &lt;dbl&gt;,</span></span></span>
+<span><span class="co">#&gt; <span style="color: #949494;"># ℹ 36 more variables: T_05_PublicTransport &lt;dbl&gt;, T_06_AirTravelLong &lt;dbl&gt;,</span></span></span>
 <span><span class="co">#&gt; <span style="color: #949494;">#   T_07_AirTravelShort &lt;dbl&gt;, T_08_LongDistanceTra &lt;dbl&gt;, PETS_4 &lt;dbl&gt;,</span></span></span>
 <span><span class="co">#&gt; <span style="color: #949494;">#   PETS_5 &lt;dbl&gt;, `E1_Electricity Usage` &lt;dbl&gt;, EH_02_ElectricityBil_1 &lt;dbl&gt;,</span></span></span>
-<span><span class="co">#&gt; <span style="color: #949494;">#   EH_05_NaturalGasBill_1 &lt;dbl&gt;, F_01_DietaryHabits_5 &lt;dbl&gt;,</span></span></span>
-<span><span class="co">#&gt; <span style="color: #949494;">#   F_01_DietaryHabits_6 &lt;dbl&gt;, F_01_DietaryHabits_7 &lt;dbl&gt;,</span></span></span>
-<span><span class="co">#&gt; <span style="color: #949494;">#   F_01_DietaryHabits_4 &lt;dbl&gt;, CL_01_ClothingPurcha &lt;dbl&gt;,</span></span></span>
-<span><span class="co">#&gt; <span style="color: #949494;">#   CL_03_MonthlyEx_9 &lt;dbl&gt;, CL_03_MonthlyEx_10 &lt;dbl&gt;, …</span></span></span></code></pre></div>
+<span><span class="co">#&gt; <span style="color: #949494;">#   EH_05_NaturalGasBill_1 &lt;dbl&gt;, EH_07_WaterBill &lt;dbl&gt;,</span></span></span>
+<span><span class="co">#&gt; <span style="color: #949494;">#   F_01_DietaryHabits_5 &lt;dbl&gt;, F_01_DietaryHabits_6 &lt;dbl&gt;,</span></span></span>
+<span><span class="co">#&gt; <span style="color: #949494;">#   F_01_DietaryHabits_7 &lt;dbl&gt;, F_01_DietaryHabits_4 &lt;dbl&gt;,</span></span></span>
+<span><span class="co">#&gt; <span style="color: #949494;">#   CL_01_ClothingPurcha &lt;dbl&gt;, CL_03_MonthlyEx_9 &lt;dbl&gt;, …</span></span></span></code></pre></div>
 </div>
 <div class="section level2">
 <h2 id="step-5-run-a-linear-regression">Step 5: Run a linear regression<a class="anchor" aria-label="anchor" href="#step-5-run-a-linear-regression"></a>
@@ -224,18 +228,18 @@ carbon emissions. This is a basic linear model using the built-in
 <span><span class="co">#&gt; </span></span>
 <span><span class="co">#&gt; Residuals:</span></span>
 <span><span class="co">#&gt;     Min      1Q  Median      3Q     Max </span></span>
-<span><span class="co">#&gt; -6303.6 -2107.0    40.9  3024.8  6997.5 </span></span>
+<span><span class="co">#&gt; -6357.8 -2142.3    52.1  3047.6  6820.1 </span></span>
 <span><span class="co">#&gt; </span></span>
 <span><span class="co">#&gt; Coefficients:</span></span>
 <span><span class="co">#&gt;              Estimate Std. Error t value Pr(&gt;|t|)    </span></span>
-<span><span class="co">#&gt; (Intercept) 8.730e+03  1.115e+03   7.828 4.01e-10 ***</span></span>
-<span><span class="co">#&gt; income      4.933e-02  1.621e-02   3.044  0.00378 ** </span></span>
+<span><span class="co">#&gt; (Intercept) 8.919e+03  1.111e+03   8.026 2.01e-10 ***</span></span>
+<span><span class="co">#&gt; income      4.810e-02  1.615e-02   2.979  0.00453 ** </span></span>
 <span><span class="co">#&gt; ---</span></span>
 <span><span class="co">#&gt; Signif. codes:  0 '***' 0.001 '**' 0.01 '*' 0.05 '.' 0.1 ' ' 1</span></span>
 <span><span class="co">#&gt; </span></span>
-<span><span class="co">#&gt; Residual standard error: 3600 on 48 degrees of freedom</span></span>
-<span><span class="co">#&gt; Multiple R-squared:  0.1618, Adjusted R-squared:  0.1444 </span></span>
-<span><span class="co">#&gt; F-statistic: 9.267 on 1 and 48 DF,  p-value: 0.003779</span></span></code></pre></div>
+<span><span class="co">#&gt; Residual standard error: 3587 on 48 degrees of freedom</span></span>
+<span><span class="co">#&gt; Multiple R-squared:  0.156,  Adjusted R-squared:  0.1384 </span></span>
+<span><span class="co">#&gt; F-statistic: 8.874 on 1 and 48 DF,  p-value: 0.004527</span></span></code></pre></div>
 </div>
 <div class="section level2">
 <h2 id="step-6-create-a-plot">Step 6: Create a Plot<a class="anchor" aria-label="anchor" href="#step-6-create-a-plot"></a>

diff --git a/reference/questionnaire_example.html b/reference/questionnaire_example.html
@@ -99,6 +99,9 @@ demographics, and other lifestyle factors.</p>
 <dd><p>dbl; Electricity bill amount (first measurement).</p></dd>
 
 <dt>EH_05_NaturalGasBill_1</dt>
+<dd><p>dbl; Water bill amount (first measurement).</p></dd>
+
+<dt>EH_07_WaterBill</dt>
 <dd><p>dbl; Natural gas bill amount (first measurement).</p></dd>
 
 <dt>F_01_DietaryHabits_5</dt>
